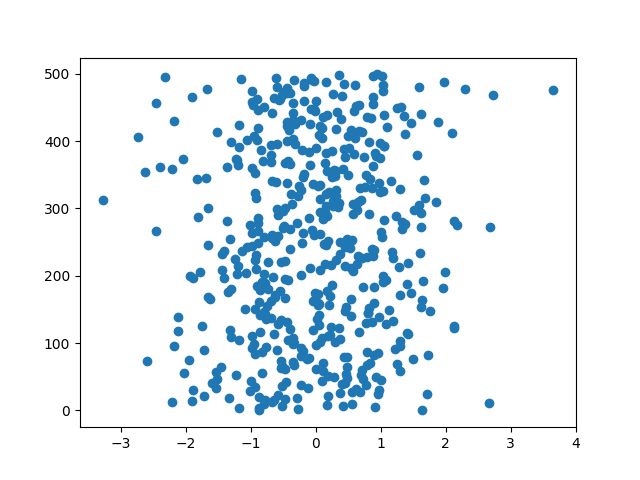
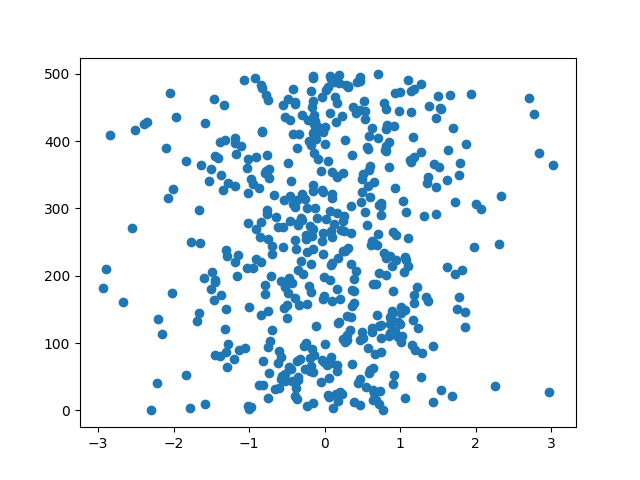
Added sobol_norm_rand function

diff --git a/Normal_Sobol/Sobol_Gaussian.py b/Normal_Sobol/Sobol_Gaussian.py
@@ -34,8 +34,8 @@ class Random_generador(object):
     def __init__(self,size):
         self.size=size
         ###########################################################
-    def sobol_normal(self):
-        sampler = qmc.Sobol(d=2, scramble=False)
+    def sobol_normal(self,scramble=False):
+        sampler = qmc.Sobol(d=2, scramble=scramble)
         size_sobol = int(np.log(self.size)/np.log(2))+1
         print("size = ",self.size," ;size Sobol = ",size_sobol)
         sample = sampler.random_base2(m=size_sobol)
@@ -101,10 +101,28 @@ class Random_generador(object):
         plt.show()
         return data1
         ###########################################################
+# -------
+# Functions
+# -------
+def sobol_norm_rand(size,n_modes,scramble=True):
+    sampler = qmc.Sobol(d=2,scramble=scramble)
+    size_rand = size+n_modes
+    size_sobol = int(np.log(size_rand)/np.log(2))+1
+    sample = sampler.random_base2(m=size_sobol)
+    data1 = []
+    while (len(data1<size_rand)):
+        data = sampler.random()
+        v1 = 2.0*data[0][0]-1.0
+        v2 = 2.0*data[0][1]-1.0
+        Riq = v1*v1+v2*v2
+        if (0< Riq <= 1):
+            data3 = np.sqrt(-2.0*np.log(Riq)/Riq)
+            data1.append(v1*data3)
+    return np.resize(data1,(size,n_modes))
 
 def main(args):
     calculos = Random_generador(500)
-    calculos.sobol_normal()
+    calculos.sobol_normal(scramble=True)
     calculos.random_normal()
     calculos.random_numpy_normal()
     return 0
